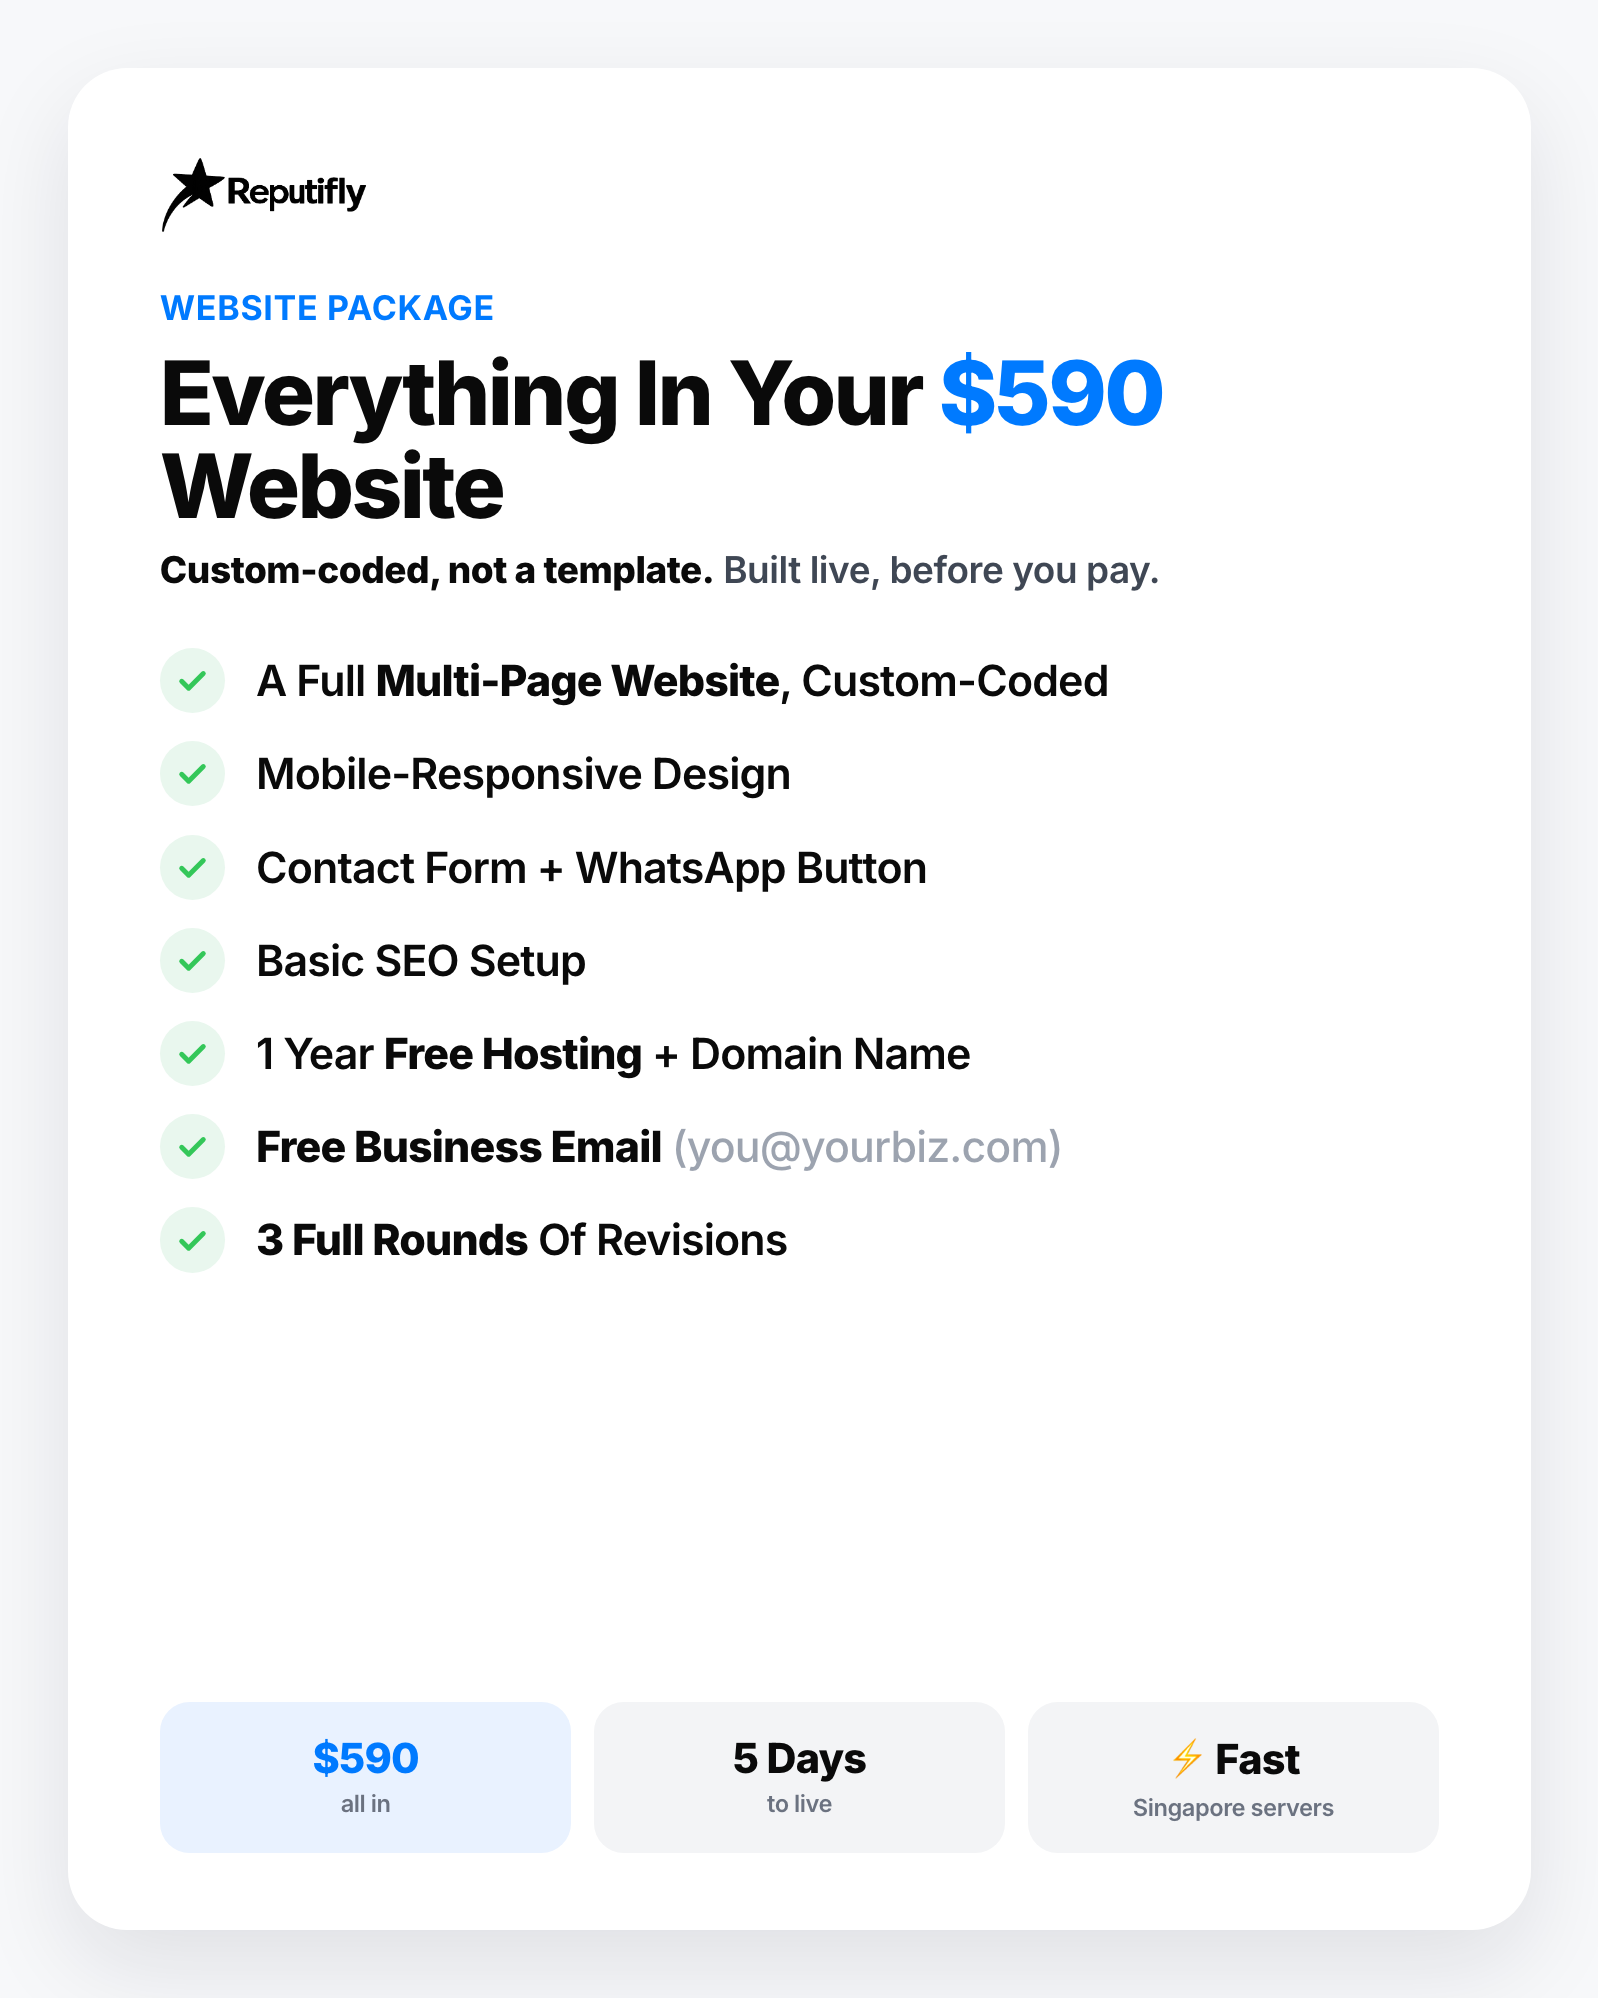
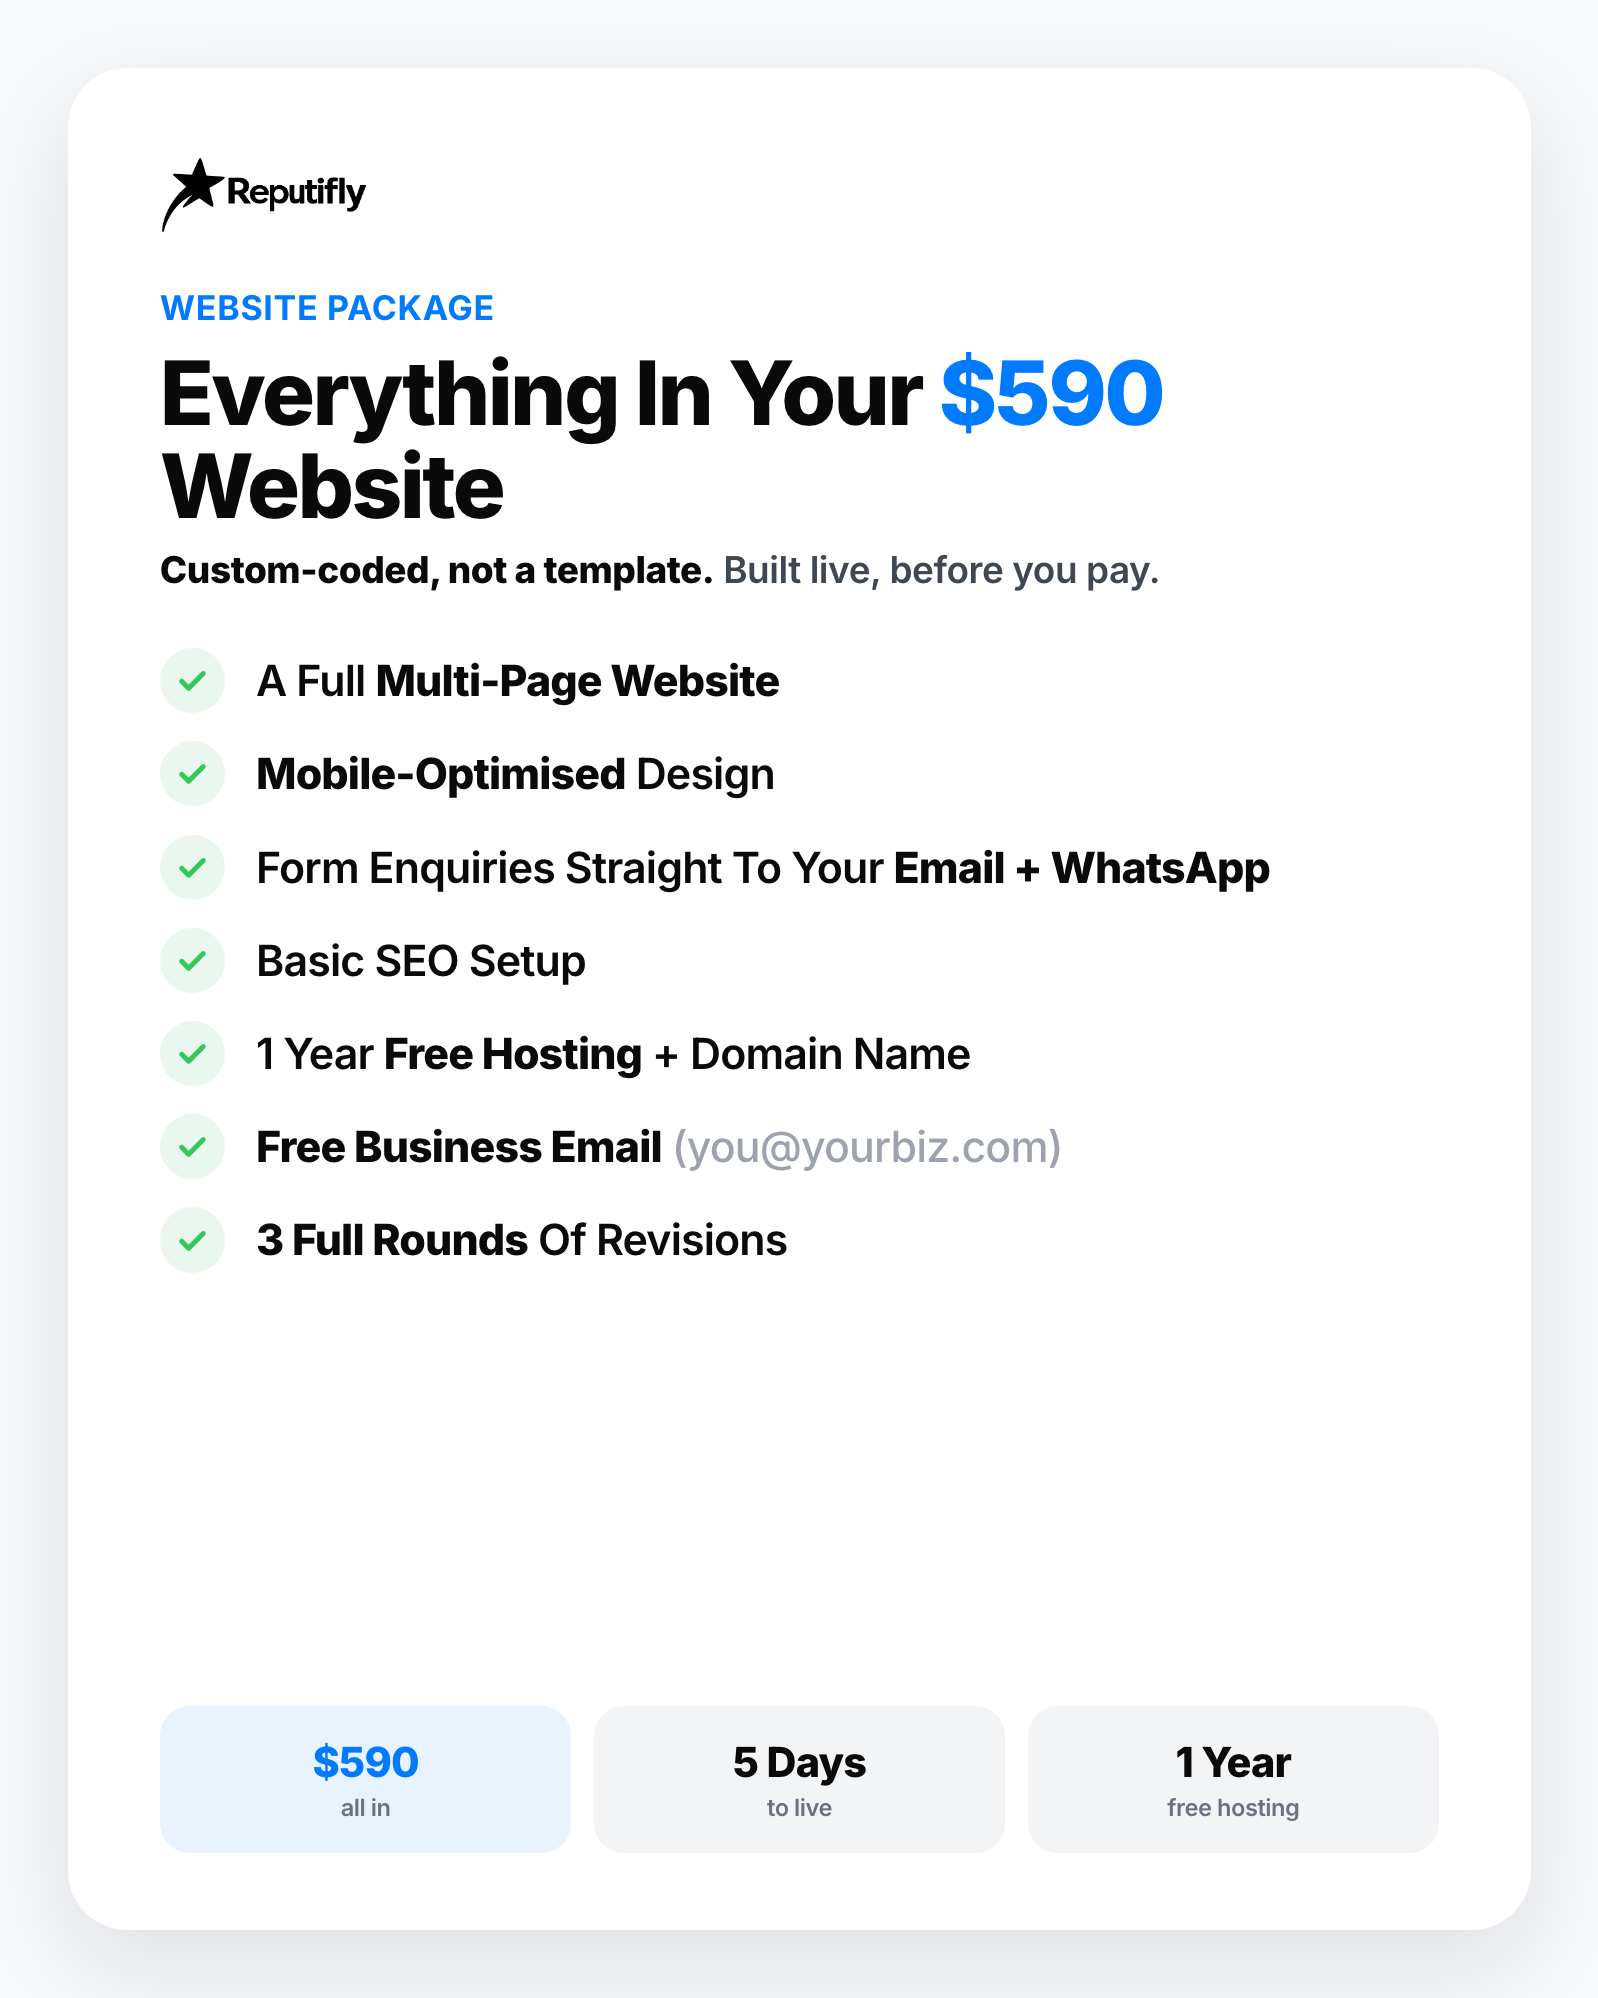
Playbook: back steps through history (not all-the-way-out), more gap above Read-the-Client, DIY rebuttal gets SEO/ranking punch; card: email+WhatsApp line, mobile-optimised, 1-Year-hosting chip

diff --git a/closer-playbook/index.html b/closer-playbook/index.html
@@ -95,7 +95,7 @@ button:focus-visible,[tabindex]:focus-visible{box-shadow:var(--shadow-focus);bor
 .doblk .lab{font-size:11px;font-weight:800;letter-spacing:.05em;text-transform:uppercase;color:var(--color-primary-active);margin-bottom:5px}
 .doblk .tx{font-size:14.5px;color:var(--color-ink);line-height:1.6;white-space:pre-wrap}
 .doblk .tx b{font-weight:700}
-.rcard{padding:15px 17px;background:#fff8ec;border:1px solid #ffe2b0;border-radius:var(--radius-md);margin-bottom:18px}
+.rcard{padding:15px 17px;background:#fff8ec;border:1px solid #ffe2b0;border-radius:var(--radius-md);margin-top:28px;margin-bottom:10px}
 .rcard .lab{font-size:11px;font-weight:800;letter-spacing:.05em;text-transform:uppercase;color:#9a5a00;margin-bottom:7px}
 .rcard .tx{font-size:13.5px;color:#5c4a2b;line-height:1.6;white-space:pre-wrap}
 .rcard .tx b{font-weight:800;font-size:15px;color:#7a4a12}
@@ -338,7 +338,7 @@ var NODES={
     scripts:[
       {n:"Message 1 — the proof (send with the screenshot)",t:"i get it 🙂 difference is we actually *rank* you.\none client's at *6,000 visits a month* off google.\nask the cheaper guys for proof of their SEO. most can't."},
       {n:"Message 2 — only if they keep pushing",t:"you're not buying a page,\nyou're buying the people who *run + rank* it.\nhappy to keep it at *$590* 👍"},
-      {n:"“my nephew / Wix can do it cheaper” (DIY)",t:"for sure you could 🙂 the difference is you'd be the one building it, fixing it, and figuring out google at 11pm\n\nwith us you just run your business, we build it, host it, rank it, handle every change. that's the *$590* 👍"}],
+      {n:"“my nephew / Wix can do it cheaper” (DIY)",t:"for sure you could 🙂\n\nbut a diy or template site won't *rank on google*, so it won't bring you any leads\n\nwe build yours to actually get found, and we run it all for you. if you want customers finding you, you know who to go with 👍 *$590*"}],
     next:[{l:"Cleared, They're Warming → Close",to:"close"},{l:"Only Wants Cheaper → Flag Julian",to:"timewaster"},{l:"Went Quiet",to:"followup"}]},
   meet:{title:"They Want To Meet / Call",tag:{x:"hot"},label:"sample sent",
     do:"Buying intent in SG, say yes fast. Default to a Google Meet (keeps the energy, no stranger meeting a stranger). Offer 2 concrete slots, not \"when works?\", it books about twice as fast. Show the live site + the SEO proof, then close on the spot.",
@@ -384,7 +384,7 @@ var NODES={
 };
 
 var sidescroll=document.getElementById("sidescroll"),detail=document.getElementById("detail");
-var curScripts=[],curId=null,listScroll=0;
+var curScripts=[],curId=null,listScroll=0,navStack=[];
 
 function esc(s){return String(s).replace(/&/g,"&amp;").replace(/</g,"&lt;").replace(/>/g,"&gt;");}
 function waFmt(s){
@@ -415,9 +415,8 @@ function renderWelcome(){
     '<h2>Closer Playbook</h2><p>Pick the situation you’re in on the left. You’ll get exactly what to do and a copy-paste message for WhatsApp. Tap <b>Copy</b>, paste, send.</p></div>';
 }
 
-function selectNode(id){
+function render(id){
   var n=NODES[id];if(!n)return;
-  if(!document.body.classList.contains("viewing"))listScroll=window.scrollY;
   curId=id;curScripts=(n.scripts||[]).map(function(s){return s.t;});
   var h='<div class="inner rf-fade-in">';
   h+='<div class="nodehd">'+esc(n.title)+'</div>';
@@ -451,13 +450,20 @@ function selectNode(id){
   if(n.readClient)h+='<div class="rcard"><div class="lab">Read The Client</div><div class="tx">'+waFmt(n.readClient)+'</div></div>';
   h+='</div>';
   detail.innerHTML=h;detail.scrollTop=0;
-  document.body.classList.add("viewing");
   setActive(id);window.scrollTo(0,0);
+}
+
+function go(id){
+  if(!NODES[id])return;
+  if(!document.body.classList.contains("viewing")){listScroll=window.scrollY;navStack=[];}
+  navStack.push(id);
+  document.body.classList.add("viewing");
+  render(id);
 }
 
 function setActive(id){var rows=sidescroll.querySelectorAll(".srow");for(var i=0;i<rows.length;i++)rows[i].classList.toggle("active",rows[i].getAttribute("data-go")===id);}
 
-function back(){document.body.classList.remove("viewing");window.scrollTo(0,listScroll);}
+function back(){navStack.pop();if(navStack.length){render(navStack[navStack.length-1]);}else{document.body.classList.remove("viewing");window.scrollTo(0,listScroll);}}
 
 function doCopy(i,btn){
   var raw=curScripts[i];if(raw==null)return;
@@ -472,7 +478,7 @@ function toast(msg){var el=document.getElementById("toast");el.textContent=msg;e
 document.addEventListener("click",function(e){
   var t=e.target.closest?e.target.closest("[data-go],[data-act]"):null;
   if(!t)return;
-  if(t.hasAttribute("data-go")){selectNode(t.getAttribute("data-go"));return;}
+  if(t.hasAttribute("data-go")){go(t.getAttribute("data-go"));return;}
   var act=t.getAttribute("data-act");
   if(act==="back")back();
   else if(act==="copy")doCopy(parseInt(t.getAttribute("data-i"),10),t);

diff --git a/closer-playbook/whats-included.html b/closer-playbook/whats-included.html
@@ -33,15 +33,15 @@ h1 .price{color:#007aff}
 <div class="foot">
   <div class="chip blue"><div class="big">$590</div><div class="sm">all in</div></div>
   <div class="chip"><div class="big">5 Days</div><div class="sm">to live</div></div>
-  <div class="chip"><div class="big">⚡ Fast</div><div class="sm">Singapore servers</div></div>
+  <div class="chip"><div class="big">1 Year</div><div class="sm">free hosting</div></div>
 </div>
 </div>
 <script>
 var full=new URLSearchParams(location.search).get("seo")==="full";
 var items=[
-  "A Full *Multi-Page Website*, Custom-Coded",
-  "Mobile-Responsive Design",
-  "Contact Form + WhatsApp Button",
+  "A Full *Multi-Page Website*",
+  "*Mobile-Optimised* Design",
+  "Form Enquiries Straight To Your *Email + WhatsApp*",
   full ? "*Full SEO Setup*" : "Basic SEO Setup",
   "1 Year *Free Hosting* + Domain Name",
   "*Free Business Email* §([email redacted])§",